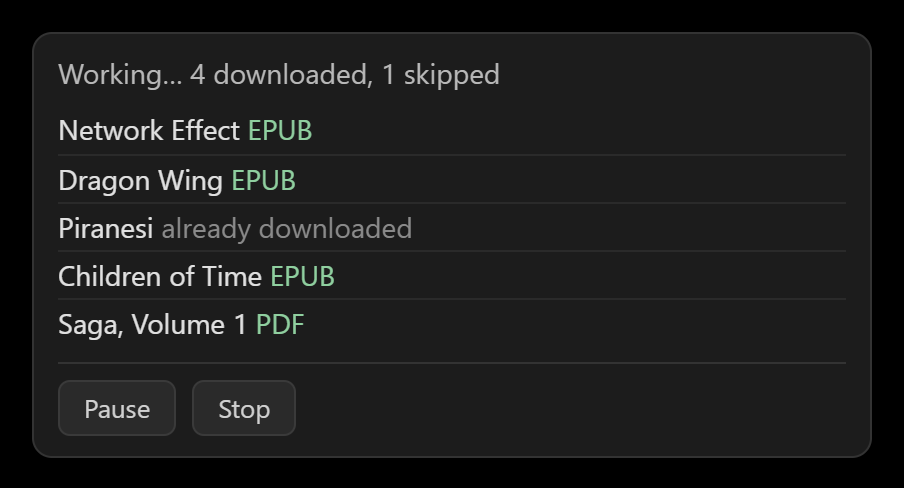
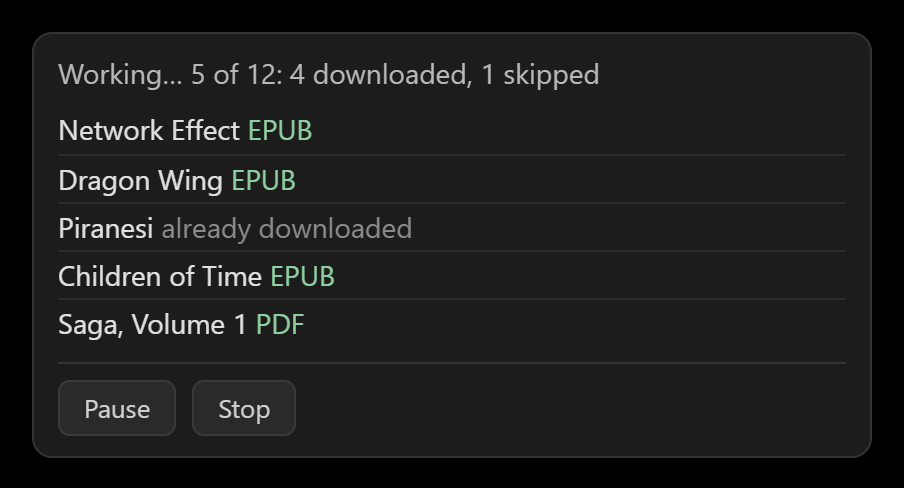
Progress: every run shows how far it has got ('10 of 50'); README rewritten
Download, Return, Borrow and Open in reader all show books done of books picked
before their own counts, while running and in the summary. The README now
follows the menu order and covers Open in reader, the Download list's choices,
the progress panel, every option, and Shift-click.

Changed region(s): [[0.2168, 0.123, 0.6814, 0.1844]]

diff --git a/src/content.js b/src/content.js
@@ -398,6 +398,10 @@
   let mode = 'download';  // which footer button started the current run
   let choose = null;      // while the panel is asking a question: call with the answer
   let choices = [];       // [{ label, value }] buttons shown for that question
+  // A run's progress: books done of the books picked ("10 of 50"), shown before its own counts.
+  let runDone = 0;
+  let runTotal = 0;
+  const progress = () => runTotal ? `${Math.min(runDone, runTotal)} of ${runTotal}: ` : '';
   let onPickChange = null;  // while picking books: refreshes the count and button
 
   // A download-tray icon drawn like Libby's own footer icons (64x64, same classes, so Libby's
@@ -1027,13 +1031,16 @@
     stopRequested = false;
     paused = false;
     results = [];
+    runDone = 0;
+    runTotal = 0;
     let downloaded = 0;
     const count = () => {
       const skipped = results.length - downloaded;
-      return `${downloaded} downloaded, ${skipped} skipped`;
+      return `${progress()}${downloaded} downloaded, ${skipped} skipped`;
     };
     const note = (loan, result, ok = false) => {
       bookDone(ok);
+      runDone++;
       log(`${loan.title} [${loan.id}]: ${result}`);
       results.push({ title: loan.title, result, ok });
       if (ok) downloaded++;
@@ -1194,6 +1201,7 @@
       const why = await reachShelf();
       if (why) { ending = why; ok = false; return; }
       let lost = false;
+      runTotal = todo.length;
       log(`${loans.length} loans on the shelf; downloading ${todo.length}${resume ? ' (carrying on)' : ''}:`,
         todo.map(l => l.title));
       render(`Working… ${count()}`);
@@ -1361,10 +1369,13 @@
     stopRequested = false;
     paused = false;
     results = [];
+    runDone = 0;
+    runTotal = 0;
     let returned = 0;
-    const count = () => `${returned} returned, ${results.length - returned} not returned`;
+    const count = () => `${progress()}${returned} returned, ${results.length - returned} not returned`;
     const note = (loan, result, ok = false) => {
       bookDone(ok);
+      runDone++;
       log(`${loan.title} [${loan.id}]: ${result}`);
       results.push({ title: loan.title, result, ok });
       if (ok) returned++;
@@ -1412,6 +1423,7 @@
       if (!todo) { cancelled = true; return; }
       const why = await reachShelf();
       if (why) { ending = why; ok = false; return; }
+      runTotal = todo.length;
       log(`returning ${todo.length} of ${loans.length} loans:`, todo.map(l => l.title));
       render(`Returning… ${count()}`);
 
@@ -1603,10 +1615,13 @@
     stopRequested = false;
     paused = false;
     results = [];
+    runDone = 0;
+    runTotal = 0;
     let opened = 0;
-    const count = () => `${opened} opened, ${results.length - opened} not`;
+    const count = () => `${progress()}${opened} opened, ${results.length - opened} not`;
     const note = (loan, result, ok = false) => {
       bookDone(ok);
+      runDone++;
       log(`${loan.title} [${loan.id}]: ${result}`);
       results.push({ title: loan.title, result, ok });
       if (ok) opened++;
@@ -1654,6 +1669,7 @@
       if (!todo) { cancelled = true; return; }
       const why = await reachShelf();
       if (why) { ending = why; ok = false; return; }
+      runTotal = todo.length;
       log(`opening ${todo.length} of ${loans.length} read-online books:`, todo.map(l => `${l.title} (${readerKind(l)})`));
       render(`Opening… ${count()}`);
       // For the whole run (a late reader address is caught too, never left to Libby).
@@ -2142,16 +2158,19 @@
     stopRequested = false;
     paused = false;
     results = [];
+    runDone = 0;
+    runTotal = 0;
     let borrowed = 0;
     let held = 0;
     let had = 0;  // already on your shelf by the time its turn came
     let notified = 0;  // tagged Notify Me
     let dropped = 0;  // leftover holds cancelled
-    const count = () => `${borrowed} borrowed, ${held} holds` + (had ? `, ${had} already yours` : '') +
+    const count = () => `${progress()}${borrowed} borrowed, ${held} holds` + (had ? `, ${had} already yours` : '') +
       (notified ? `, ${notified} notify me` : '') +
       (dropped ? `, ${dropped} holds cancelled` : '') + `, ${results.filter(r => !r.ok).length} not`;
     const note = (book, result, ok = false) => {
       bookDone(ok);
+      runDone++;
       log(`${book.title} [${book.titleId}]: ${result}`);
       results.push({ title: book.title, result, ok });
       if (ok && /^already/.test(result)) had++;
@@ -2202,6 +2221,7 @@
           return !n ? `Borrow ${k}` : n === k ? `Notify me for ${n}` : `Borrow ${k - n}, notify ${n}`;
         }, danger: false });
       if (!todo) { cancelled = true; return; }
+      runTotal = todo.length;
       log(`borrowing ${todo.length} of ${books.length}:`, todo.map(b => b.title));
       render(`Borrowing… ${count()}`);
 

diff --git a/README.md b/README.md
@@ -1,15 +1,16 @@
 # bookhoard
 
 Download all your Libby books at once, with proper file names. Return them all at once when
-you're done. Borrow a whole series in one go.
+you're done. Borrow a whole series in one go. Open the books you can only read online, one after
+another.
 
 bookhoard adds a button to the bottom of Libby in your browser. Click it to choose:
 
 ![Libby's footer with the bookhoard button and its menu: Download, Return and Borrow](docs/footer.png)
 
-- **Open in reader** opens the books you can only read online, each in a new tab. It only shows when
-  you have some.
-- **Download** saves every book you've borrowed, named like `Children of Time - Adrian Tchaikovsky`.
+- **Open in reader** opens the books you can only read online (in Media Do's reader or Libby's).
+  It only shows when you have some.
+- **Download** saves the books you've borrowed, named like `Children of Time - Adrian Tchaikovsky`.
 - **Return** sends back the books you pick.
 - **Borrow** borrows the books listed on a page, like a whole series. It only shows on those pages.
 
@@ -29,7 +30,8 @@ Download the zip for your browser from the
 2. Go to `chrome://extensions` (or `edge://extensions`) and turn on **Developer mode**.
 3. Click **Load unpacked** and pick the folder.
 
-To update, unzip the new version into the same folder and click the reload button on bookhoard.
+To update, unzip the new version into the same folder, click the reload button on bookhoard, then
+reload your Libby tab.
 
 **Firefox**
 
@@ -38,17 +40,37 @@ To update, unzip the new version into the same folder and click the reload butto
 
 Firefox removes it when you close the browser, so you'll need to do this again next time.
 
+## Read your online-only books
+
+Some books can't be downloaded, only read online: in Media Do's reader (often manga; they say
+**Read With Media Do** on your shelf), or only in Libby's own reader (often comics and picture
+books). Books only for Kindle aren't included.
+
+1. Click the bookhoard button at the bottom, then **Open in reader**.
+2. Check the books you want, then click **Open**. **Media Do** and **Libby** pick all the books of
+   that kind. The list is in title order, with volumes in number order.
+
+The first book opens in a tab of its own, in its reader. When you close that tab, you're back on
+Libby and the next one opens. To stop before the next one, press **Stop** on the Libby tab.
+
+To open them all at once instead, each in its own tab behind the Libby tab, choose that under
+**Open in reader** in the options.
+
+If Libby won't open two in a row (it may limit how many open in a short time), bookhoard stops and
+shows Libby's message; try again in a few minutes.
+
 ## Download your books
 
 1. Open your loans at [libbyapp.com/shelf/loans](https://libbyapp.com/shelf/loans).
 2. Click the bookhoard button at the bottom, then **Download**.
-3. Check the books you want, then click **Download**. Books you haven't downloaded yet are already
-   checked.
+3. Check the books you want, then click **Download**.
 4. If your browser asks about downloading several files, click **Allow**.
 
 ![The Download list with a checkbox for each book](docs/download.png)
 
-A panel shows how it's going. You can **Pause** or **Stop** at any time.
+Only books with an EPUB or PDF start checked. Books you've downloaded before, audiobooks, and books
+you can only read online start unchecked, and the list says why. If you check some you've downloaded
+before, the button says so, like **Download 12 (2 again)**.
 
 ![The progress panel listing books as they download](docs/downloading.png)
 
@@ -56,84 +78,93 @@ Most books come as an `.acsm` file. Open it in
 [Adobe Digital Editions](https://www.adobe.com/solutions/ebook/digital-editions.html) to get the
 book itself. A few come as a plain `.epub` or `.pdf`, ready to read.
 
+Libby blocks downloads for a while if you take too many too quickly, so bookhoard takes a short
+break every few books (2 minutes after every 10, unless you change it in the options). If Libby
+asks it to slow down anyway, bookhoard waits two minutes and carries on.
+
 ## Return your books
 
 1. Click the bookhoard button at the bottom, then **Return**.
 2. Check the books to send back, then click **Return**.
 
-Books you haven't downloaded yet start unchecked, so you don't return one by accident. Books you
-read online (in Media Do's reader or Libby's) have buttons of their own, to pick them all at once.
+Books you haven't downloaded yet start unchecked, so you don't return one by accident. **Downloaded**
+picks the ones you have, and **Media Do** and **Libby** pick the books you read online. Returning
+can't be undone: you'd have to borrow the book again.
 
 ![The Return list with a checkbox for each book](docs/return.png)
 
 ## Borrow a series
 
 1. Open a book that's part of a series, or the series itself.
-2. Click the bookhoard button at the bottom, then **Borrow**. On a book's page, bookhoard opens its series first.
+2. Click the bookhoard button at the bottom, then **Borrow**. On a book's page, bookhoard opens its
+   series first.
 3. Check the books you want, then click **Borrow**. Books with a waitlist get a hold instead.
 
 ![The Borrow list for a series, with a checkbox for each book](docs/borrow.png)
 
-bookhoard uses whichever of your libraries has a copy now. If a library card needs verifying, or
-is at its loan limit, it tries your other libraries instead. If none of them can lend the book, it skips it and says so;
-verify the card in Libby and run Borrow again for the rest. It also borrows through Libby's partner
-libraries (the "lending partnership" screen).
-
-If Libby says a book couldn't be borrowed, bookhoard shows Libby's message beside it. Libby sometimes
-stops one card from borrowing for a while after a lot of borrowing and returning ("You appear to have
-borrowed and returned too many titles within a short period"). When it does, bookhoard leaves that
-card alone for the rest of the run and borrows from your other libraries.
+bookhoard uses whichever of your libraries has a copy now, including through Libby's partner
+libraries (the "lending partnership" screen). If a library card needs verifying, is at its loan
+limit, or Libby is refusing it for now ("You appear to have borrowed and returned too many titles
+within a short period"), bookhoard leaves that card alone for the rest of the run and tries your
+other libraries. If none of them can lend the book, it skips it and says why; sort the card out in
+Libby and run Borrow again for the rest.
 
 If you already had one of the books on hold and bookhoard borrows it somewhere else, it cancels
 that hold, so Libby doesn't lend you a second copy later.
 
 Books none of your libraries have are listed as "not at your libraries". Check them (or click
-**Notify me**) and bookhoard tags them with Libby's Notify Me, so Libby tells you if a library gets one.
+**Notify me**) and bookhoard tags them with Libby's Notify Me, so Libby tells you if a library gets
+one.
 
-## Read your online-only books
+## The progress panel
 
-Some books can't be downloaded, only read online: in Media Do's reader (often manga; they say
-**Read With Media Do** on your shelf), or only in Libby's own reader (often comics and picture books).
+While bookhoard works, a panel in the corner shows how far it has got, like
+**Returning… 10 of 50: 10 returned, 0 not returned**.
 
-1. Click the bookhoard button at the bottom, then **Open in reader**.
-2. Check the books you want, then click **Open**.
-
-The first book opens in a tab of its own, in its reader. When you close that tab, you're back on
-Libby and the next one opens. Press **Stop** on the Libby tab to not open the rest. To open them all
-at once instead, choose that under **Open in reader** in the options. Books only for Kindle aren't
-included.
-
-If Libby won't open two in a row (it may limit how many open in a short time), bookhoard stops and
-shows Libby's message; try again in a few minutes.
+- Problems are listed first, with the reason (often Libby's own message), then the books that
+  worked. The list scrolls.
+- **Pause** holds bookhoard where it is, and **Resume** carries on. **Stop** stops after the step
+  it's on.
+- When the run finishes, the panel closes after a few seconds (you can change how long in the
+  options). It stays open if something went wrong, while your pointer is over it, and while you're
+  in another tab or window.
 
 ## Options
 
-Click the bookhoard icon in your browser's toolbar to choose how files are named, where they're
-saved, and which format to get.
+Click the bookhoard icon in your browser's toolbar.
 
 ![The options page](docs/options.png)
+
+- **File names**: how downloads are named, from fields like title, author, series and number in
+  series. `/` makes folders.
+- **Save in**: a folder inside your Downloads folder.
+- **Format**: EPUB or PDF first, or EPUB only. **If the file already exists**: keep both, or
+  replace it.
+- **Pause … seconds after every … books**: the downloads' break. 0 turns it off.
+- **Buttons in Libby**: one bookhoard button with a menu, or separate buttons.
+- **Open in reader**: one book at a time, or all at once.
+- **Progress panel**: how many seconds it stays after a run. 0 keeps it open.
+- **Troubleshooting**: **Copy last log**, and **Detailed log** for every step of every book.
 
 ## Good to know
 
 - In any list of books, Shift-click to check or uncheck every book between two you click.
 - Choosing EPUB or PDF locks that loan to the format until you borrow the book again. That's
   how Libby works.
-- Audiobooks are skipped, and so are books Libby only lets you read in its app or on Kindle.
-  bookhoard remembers those, so they start unchecked next time.
+- bookhoard remembers what it has downloaded, even after you move the files, and which books have
+  no EPUB or PDF, so those start unchecked next time.
 - Keep the Libby tab showing while bookhoard works. Browsers pause tabs in the background, so
   bookhoard waits and carries on when you come back. Its own window works, if you want to use
   other tabs meanwhile.
-- After updating bookhoard, reload your Libby tab.
-- bookhoard remembers what it has downloaded, even after you move the files, so those books start
-  unchecked next time.
+- After updating bookhoard, reload your Libby tab. Until you do, its old buttons ask you to.
 
 ## Something not working?
 
 Click **Copy log** on the panel (or **Copy last log** in the options, once the panel has closed)
-and paste it into a
-[new issue](https://github.com/phillram/bookhoard/issues). It lists your book titles and what
-happened to each one, but not your download links. Problems come first, with the steps that led to
-each one. For every step of every book, check **Detailed log** in the options and run it again.
+and paste it into a [new issue](https://github.com/phillram/bookhoard/issues). It lists your book
+titles and what happened to each one, but not your download links. Problems come first, with the
+steps that led to each one. For every step of every book, check **Detailed log** in the options and
+run it again.
 
 ## License
 
